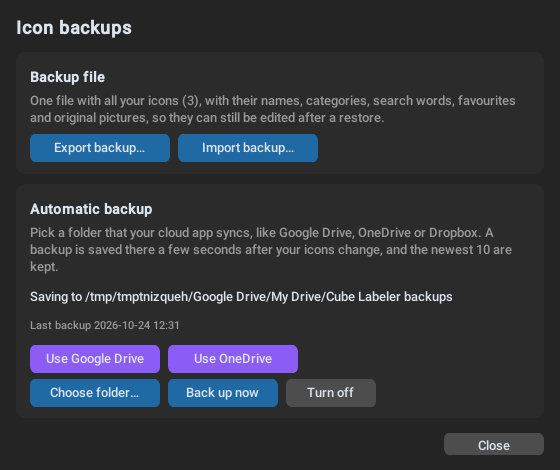
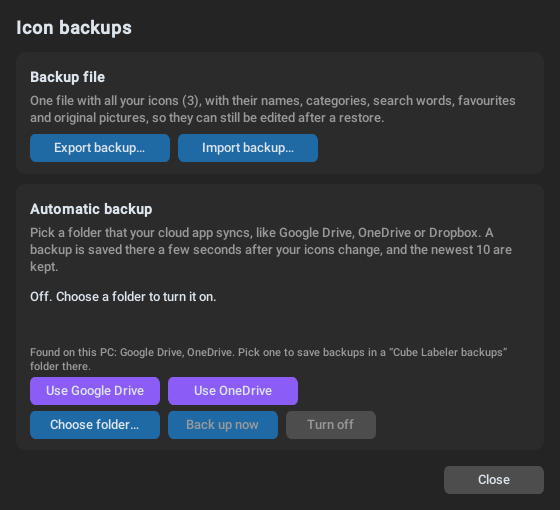
Say which cloud folders the backups window found on this PC
Claude-Session: https://claude.ai/code/session_01NQFc4cKDJnoXu2LcEnijXW

diff --git a/ui/backup_dialog.py b/ui/backup_dialog.py
@@ -69,7 +69,7 @@ class BackupDialog(ctk.CTkToplevel):
         super().__init__(parent)
         self._on_changed = on_changed
         self.title("Icon backups")
-        self.geometry("560x470")
+        self.geometry("560x510")
         self.resizable(False, False)
         self.transient(parent)
         self._build()
@@ -117,9 +117,19 @@ class BackupDialog(ctk.CTkToplevel):
         self.lbl_status = ctk.CTkLabel(auto, text="", anchor="w", justify="left", wraplength=500,
                                        font=ctk.CTkFont(size=11))
         self.lbl_status.pack(fill="x", pady=(0, 6))
+        clouds = icon_backup.cloud_folders()[:3]
+        if clouds:
+            found = "Found on this PC: " + ", ".join(name for name, _ in clouds) + \
+                f". Pick one to save backups in a “{BACKUP_SUBFOLDER}” folder there."
+        else:
+            found = ("No Google Drive, OneDrive, Dropbox or iCloud Drive folder found on this PC. "
+                     "Choose any folder, for example one your cloud app syncs.")
+        self.lbl_clouds = ctk.CTkLabel(auto, text=found, anchor="w", justify="left", wraplength=500,
+                                       font=ctk.CTkFont(size=11), text_color=MUTED_TEXT)
+        self.lbl_clouds.pack(fill="x", pady=(0, 4))
         self.cloud_row = ctk.CTkFrame(auto, fg_color="transparent")
         self.cloud_row.pack(fill="x", pady=(0, 6))
-        for name, path in icon_backup.cloud_folders()[:3]:
+        for name, path in clouds:
             ctk.CTkButton(self.cloud_row, text=f"Use {name}", width=130, fg_color="#8B5CF6", hover_color="#7C3AED",
                           command=lambda p=path: self._use_folder(os.path.join(p, BACKUP_SUBFOLDER))
                           ).pack(side="left", padx=(0, 8))

diff --git a/tests/test_gui_backups.py b/tests/test_gui_backups.py
@@ -104,6 +104,12 @@ class TestBackupDialog(unittest.TestCase):
         self.assertEqual(self.changed, [1])
         self.assertIn("Added 1", self.info[-1])
 
+    def test_says_when_no_cloud_folder_is_found(self):
+        with patch.object(ib, "cloud_folders", lambda: []):
+            dlg = self._open()
+        self.assertIn("No Google Drive", dlg.lbl_clouds.cget("text"))
+        self.assertEqual(dlg.cloud_row.winfo_children(), [])
+
     def test_import_rejects_other_files(self):
         path = os.path.join(self.tmp, "notes.cubeicons")
         with open(path, "w") as f:
@@ -118,6 +124,7 @@ class TestBackupDialog(unittest.TestCase):
         dlg = self._open()
         self.assertIn("Off", dlg.lbl_folder.cget("text"))
         self.assertEqual(dlg.btn_now.cget("state"), "disabled")
+        self.assertIn("Found on this PC: Google Drive", dlg.lbl_clouds.cget("text"))
         cloud_button = dlg.cloud_row.winfo_children()[0]
         self.assertEqual(cloud_button.cget("text"), "Use Google Drive")
         cloud_button.invoke()
